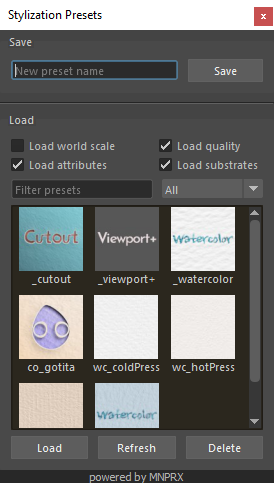
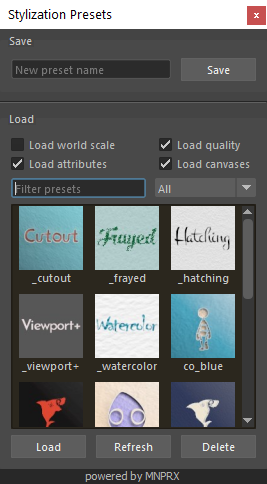
Updating Style presets

diff --git a/_mnprdocs/style-presets.md b/_mnprdocs/style-presets.md
@@ -24,7 +24,7 @@ A stylization preset contains all the available attributes found in the [style c
 You can save as many presets as you want and these can be created at the top of the _Stylization presets_ window.
 1. Name the current preset as desired in the highlighted text field
 2. Press `Enter` or click on the `Save` button on the right
-3. A new preset will appear in the list with all attributes found in the [style configuration node](../config).
+3. A new preset will appear in the list with all attributes found in the [style configuration node](../config) saved.
 
 When you save a preset with the same name as an existing one, the previously existing preset will be overwritten.
 {: .notice--warning}
@@ -35,14 +35,14 @@ Presets can be loaded into the current scene at any time.
 1. Select the preset that you would like to load
 2. Double click on the preset icon or click on the `Load` button at the bottom left
 
-{% include aio-hint.html %} Use the **Filter presets** field to filter presets by name, and the drop-down on the right to filter by style.
+{% include aio-hint.html %} Use the **Filter presets** field to filter presets by name, and the drop-down on the right to filter by style. This is especially useful when working with a lot of presets.
 
 Above the _Filter presets_ section, the loading options give you more refined control over the loading process:
 
 * **Load world scale** - Whether to load the _world scale_ setting from the style. By default this is unchecked and the current world scale will be preserved when loading the style.
 * **Load quality** -  Whether to load the _quality_ setting from the style. If this is unchecked, the current quality setting will be preserved when loading the style.
-* **Load attributes** - Whether to load the main attributes of the style preset. This is on by default, but you can uncheck this option if you want to load only the substrates.
-* **Load substrates** - Whether to load the substrate-related settings. If this is unchecked, the current substrate settings will be preserved when loading the style.
+* **Load attributes** - Whether to load the main attributes of the style preset. This is on by default, but you can uncheck this option if you want to load only the canvas attributes.
+* **Load canvases** - Whether to load the canvas-related attributes. If this is unchecked, the current canvas attributes will be preserved when loading the style.
 
 
 ## Deleting presets
@@ -56,6 +56,6 @@ Presets can be deleted at any time.
 ## Refreshing presets
 Each stylization preset is saved under `MNPRX/presets/styles` as a _\*.json_ and _\*.jpg_ file. Each individual installation will have their own presets, but these can also be shared if MNPRX is stored in a network folder.
 
-If you or someone else adds/deletes/modifies presets within the presets folder, you need to refresh the _Stylization presets_ window to grab the changes made: click on the `Refresh` button at the bottom.
+If you or someone else adds/deletes/modifies presets manually within the presets folder, you need to refresh the _Stylization presets_ window to grab the changes made: click on the `Refresh` button at the bottom.
 
 {% include toc-side %}

diff --git a/_mnprdocs/index.md b/_mnprdocs/index.md
@@ -46,8 +46,8 @@ As MNPRX continues to grow, it has become indispensable to document all its func
 <div class="doc-element" markdown="1">
 ## Styles
 ### [Style Library](/styles/)
-### [Configuration](config)
 ### [Style Presets](style-presets)
+### [Configuration](config)
 </div>
 
 <div class="doc-element" markdown="1">
@@ -67,7 +67,6 @@ As MNPRX continues to grow, it has become indispensable to document all its func
 <div class="doc-element" markdown="1">
 ## Stylizations
 ### [Import/Export](import-export)
-### Breakdowns  {% include aio-wip.html %}
 ### [Controls](controls)
 </div>
 
